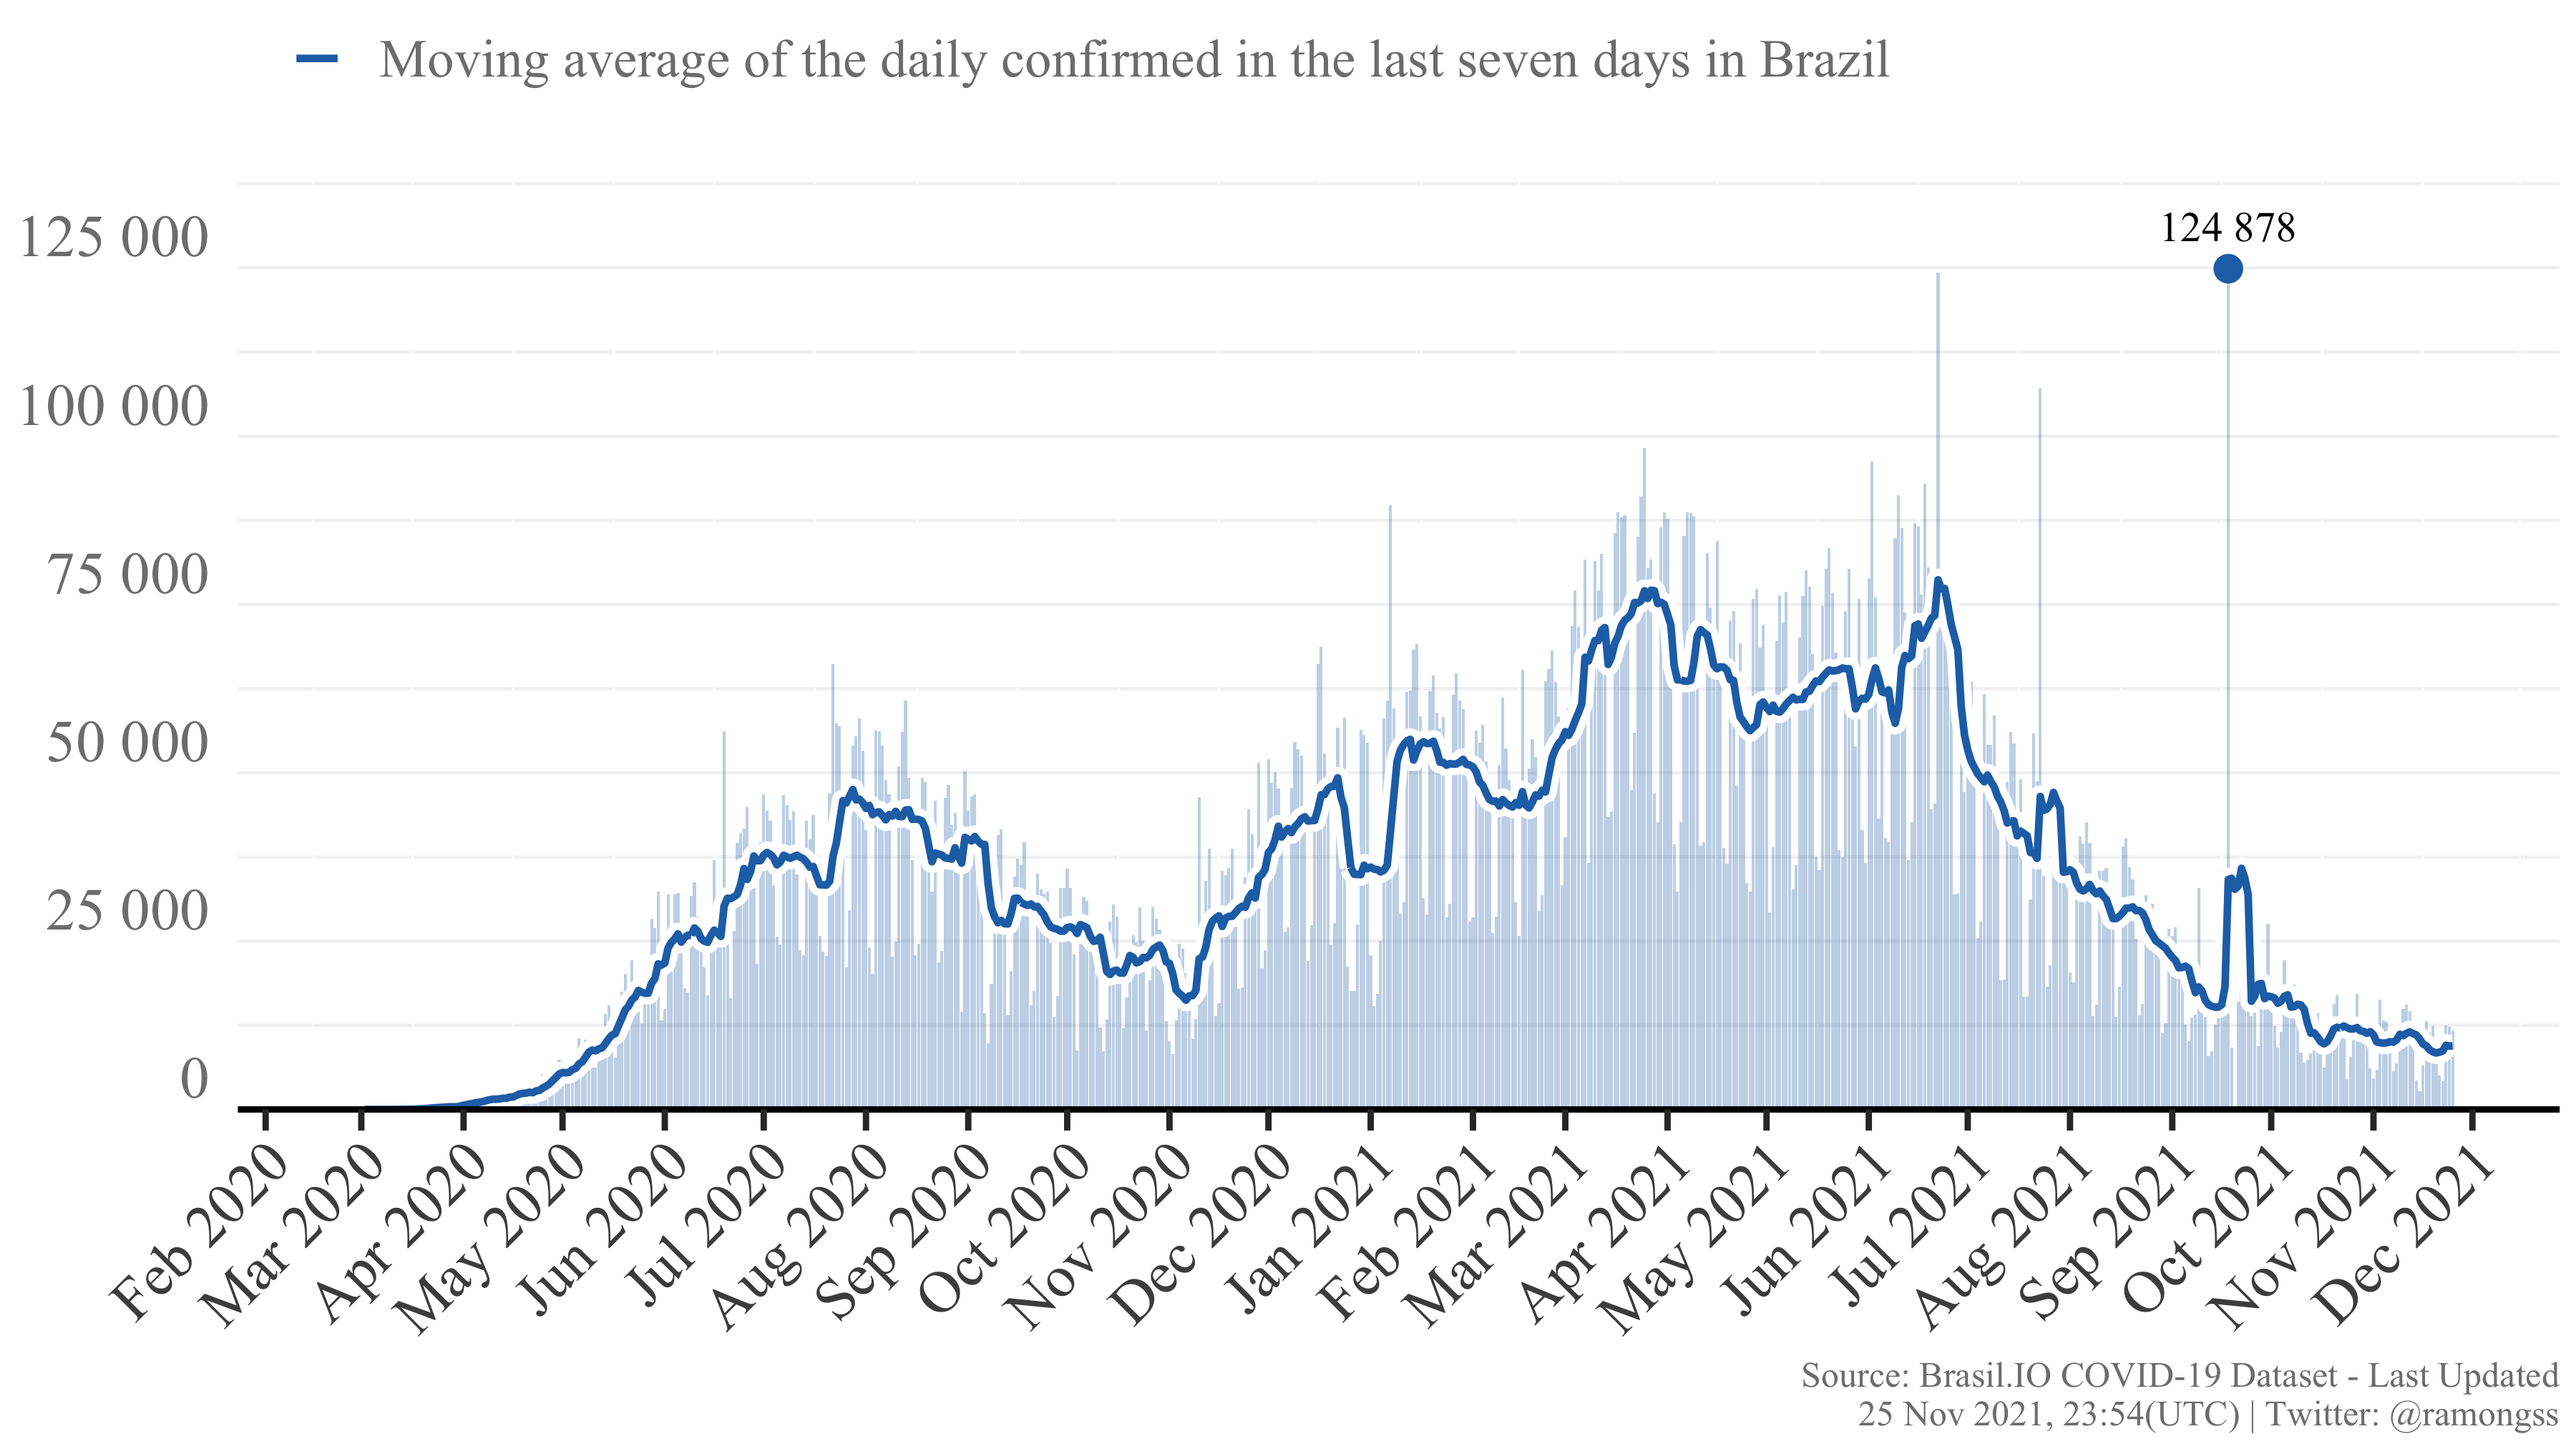
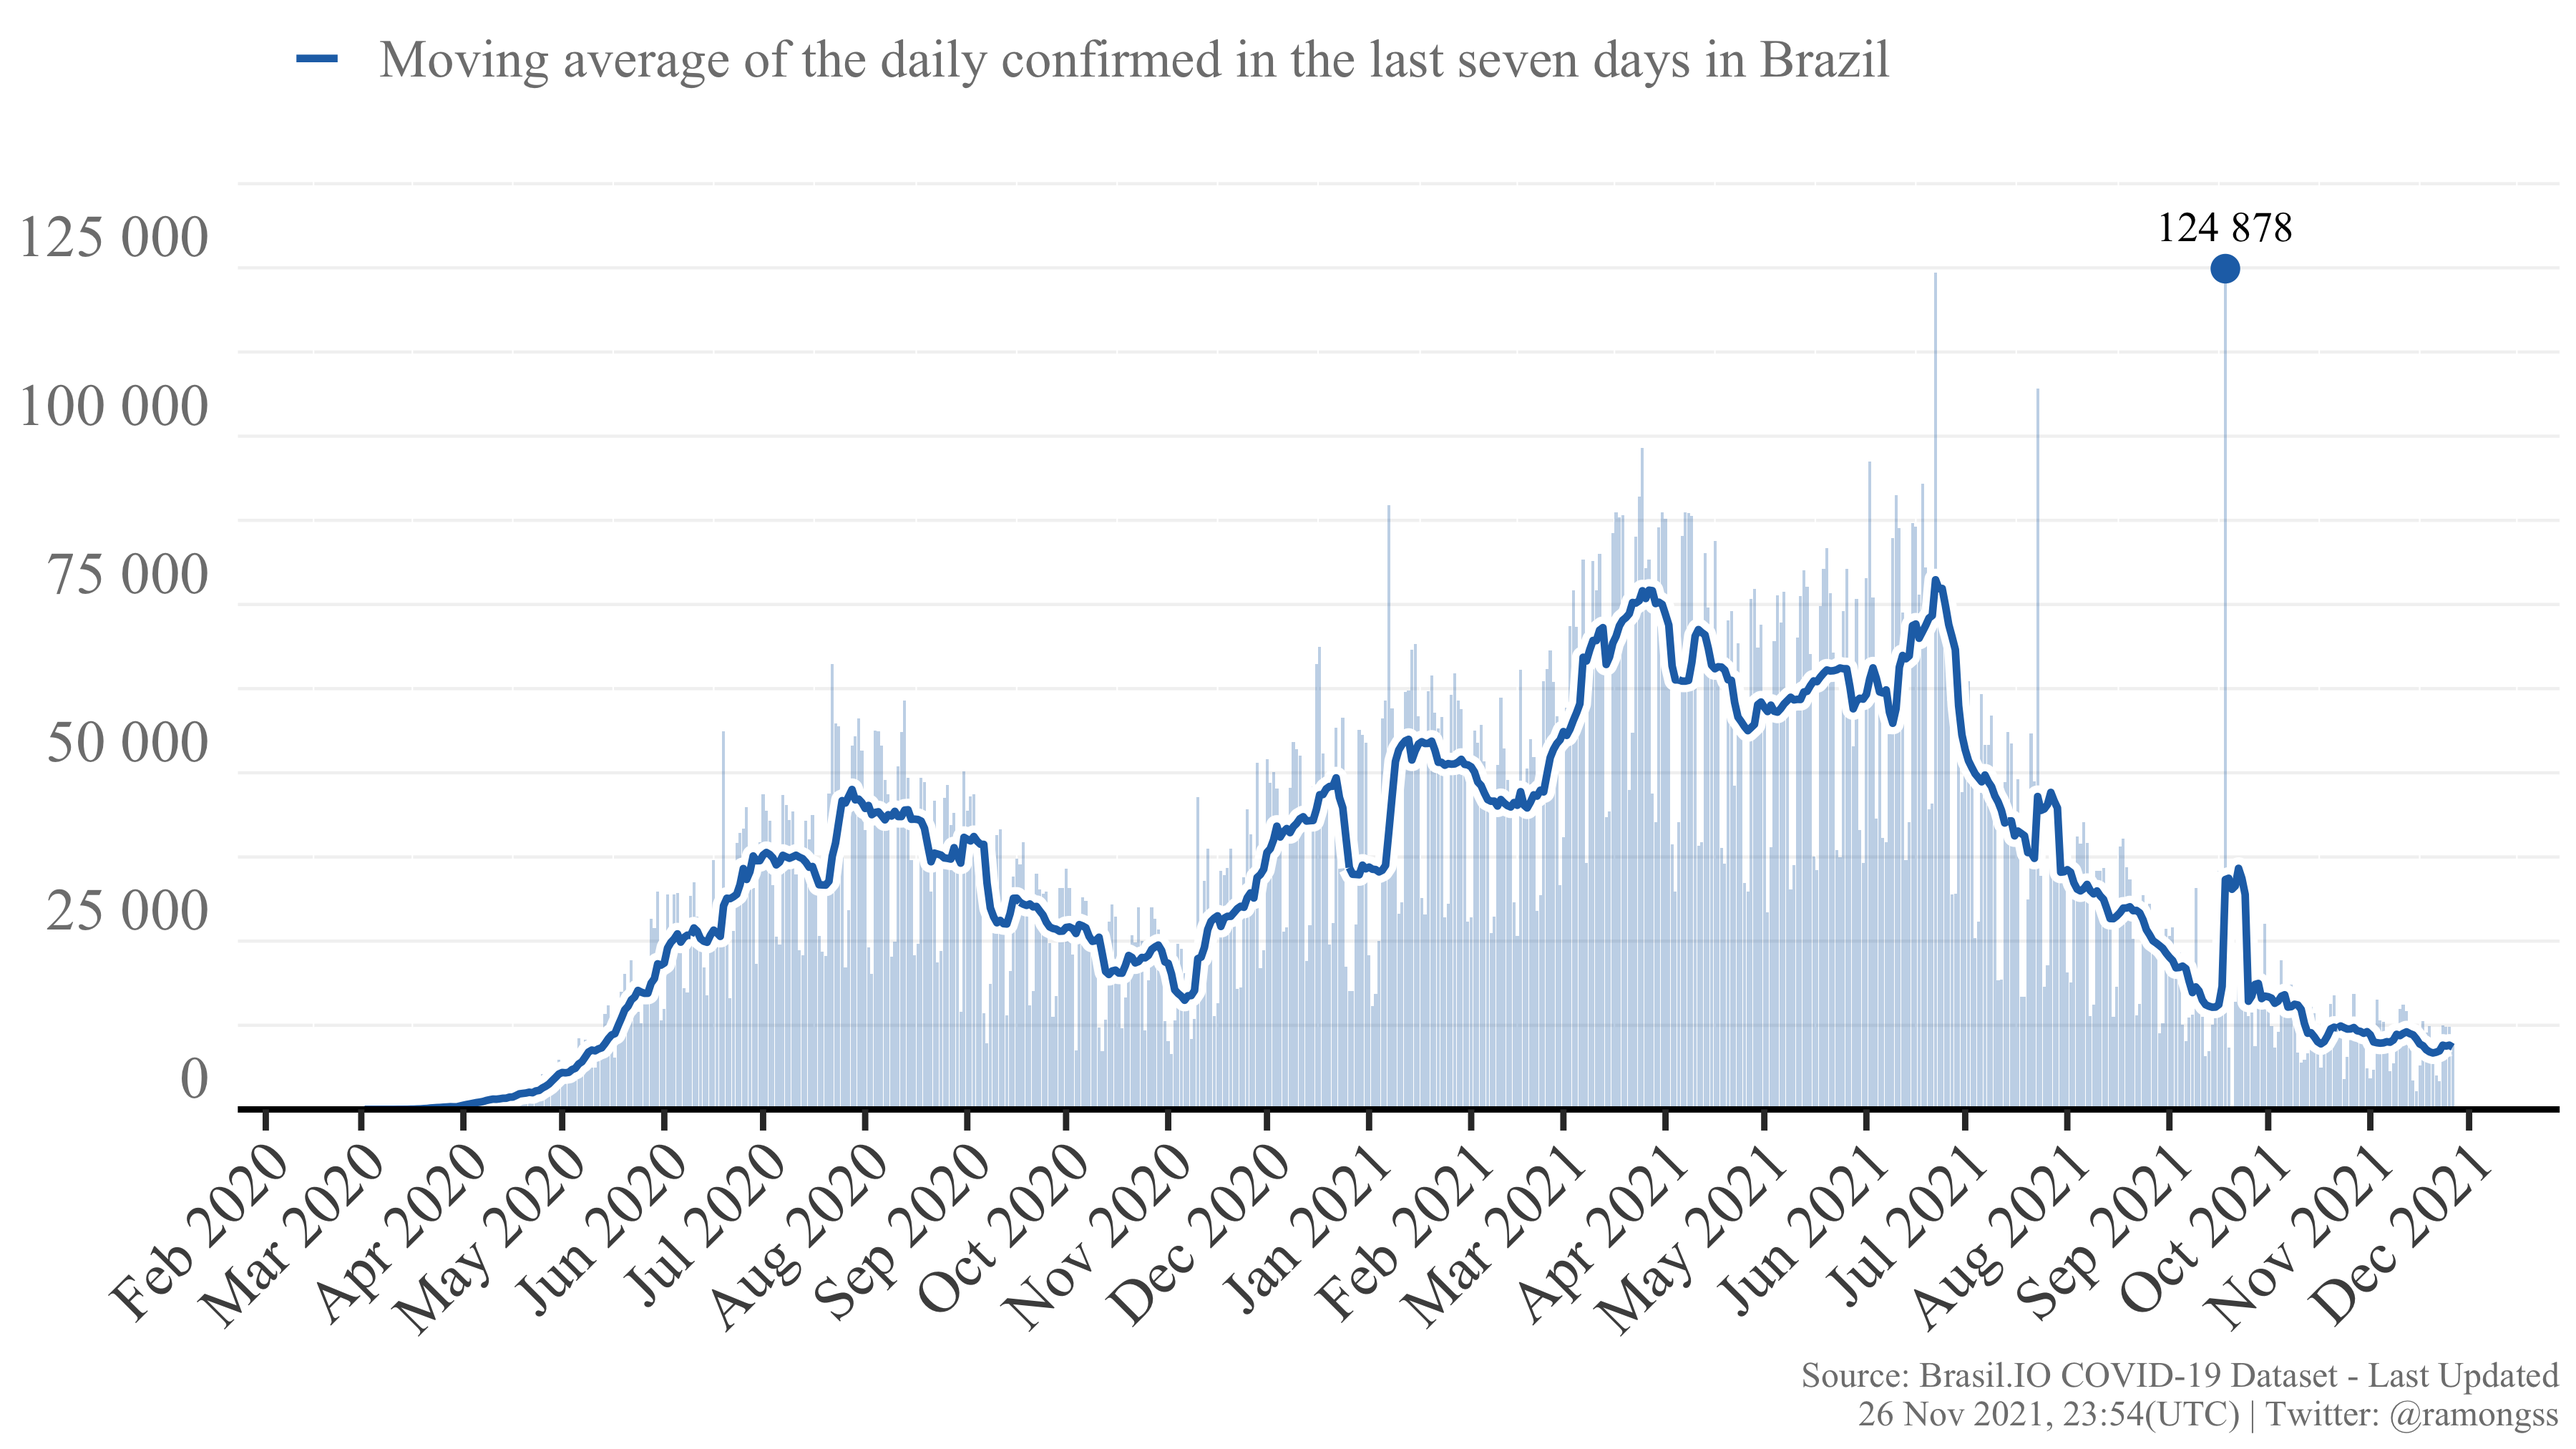
Re-build README.Rmd

diff --git a/README.md b/README.md
@@ -27,8 +27,8 @@ download_brasilio_table <- function(dataset = "covid19", table_name){
 
 ## COVID-19 Confirmed cases
 
-Currently, Brazil has a total of **22,061,996** confirmed cases at **25
-Nov, 2021**, with **11,641** new confirmed cases. The daily maximum
+Currently, Brazil has a total of **22,072,912** confirmed cases at **26
+Nov, 2021**, with **10,274** new confirmed cases. The daily maximum
 incidence was **124,878** confirmed cases at **18 Sep, 2021**. Here
 follows the Figure showing the confirmed case incidence as the bars, and
 the line as the moving average of the last 7 days.
@@ -37,8 +37,8 @@ the line as the moving average of the last 7 days.
 
 ## COVID-19 Deaths
 
-Currently, Brazil has a total of **613,926** deaths at **25 Nov, 2021**,
-with **285** new deaths. The daily maximum deaths incidence was
+Currently, Brazil has a total of **614,226** deaths at **26 Nov, 2021**,
+with **297** new deaths. The daily maximum deaths incidence was
 **4,148** deaths at **08 Apr, 2021**. Here follows the Figure showing
 the deaths incidence as the bars, and the line as the moving average of
 the last 7 days.
@@ -49,4 +49,4 @@ the last 7 days.
 
 This page is daily updated automatically using Github Actions.
 
-*Last update: 25 Nov 2021, 23:54 (UTC).*
+*Last update: 26 Nov 2021, 23:54 (UTC).*
